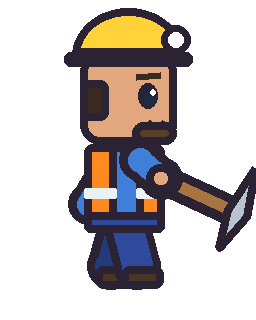
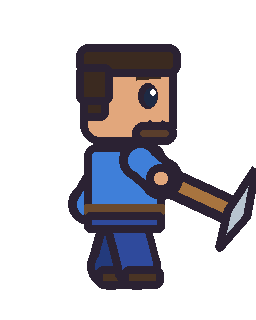
Team Up! 3D: Blocky without the hard hat and vest (brown blocky hair, blue shirt)
Claude-Session: https://claude.ai/code/session_016VAi3dvV3rpwa6cu57MYxQ

Changed region(s): [[0.25, 0.0, 0.75, 0.3125], [0.3125, 0.4688, 0.6562, 0.6875], [0.3438, 0.1875, 0.6562, 0.3125]]

diff --git a/teamup-paper/tools/gen_art.py b/teamup-paper/tools/gen_art.py
@@ -173,10 +173,7 @@ def blocky(name, legA=0.0, legB=0.0, armA=0.0, pick=0.3, squash=0.0, rot=0):
         p.rect(fx - 4, fy, fx + 6.5, fy + 5.5, BOOT, r=2)
     # body: square-ish
     p.rect(cx - 10, 36, cx + 10, 57 - squash * 4, SHIRT, r=3)
-    p.rect(cx - 10, 36, cx - 2, 57 - squash * 4, VEST, r=2)
-    p.rect(cx + 3, 36, cx + 10, 57 - squash * 4, VEST, r=2)
-    p.rect(cx - 10, 47, cx - 2, 49.5, rgb("#e9f3f5"), r=0.5, ink=False)
-    p.rect(cx + 3, 47, cx + 10, 49.5, rgb("#e9f3f5"), r=0.5, ink=False)
+    p.rect(cx - 10, 51 - squash * 4, cx + 10, 53.5 - squash * 4, rgb("#6a4a2e"), r=0.5, ink=False)   # belt
     p.rect(cx - 10, 53 - squash * 4, cx + 10, 58 - squash * 4, PANTS, r=1.5)
     # head: blocky rounded square
     hy = 24 + squash * 5
@@ -186,11 +183,9 @@ def blocky(name, legA=0.0, legB=0.0, armA=0.0, pick=0.3, squash=0.0, rot=0):
     p.eye(cx + 6, hy, 2.3, 3.2)
     p.line([(cx + 3, hy - 4.6), (cx + 9, hy - 5.2)], rgb("#3b2a20"), 1.8)  # eyebrow
     p.d.arc(p._b(cx + 5, hy + 2.5, cx + 11, hy + 8), 30, 150, fill=INK, width=int(1.5 * SS))
-    # hard hat + lamp
-    p.d.chord(p._b(cx - 13, hy - 22, cx + 15, hy + 2), 180, 360, fill=HAT, outline=INK, width=int(LW * SS))
-    p.rect(cx - 15, hy - 11, cx + 17, hy - 7.5, HAT, r=1.5)
-    p.oval(cx + 13, hy - 14, 3.6, 3.6, rgb("#fff6b0"))
-    p.oval(cx + 13, hy - 14, 1.8, 1.8, rgb("#ffffff"), ink=False)
+    # blocky brown hair on top (no hat)
+    p.rect(cx - 12, hy - 13, cx + 14, hy - 5, rgb("#3b2a20"), r=3)
+    p.rect(cx - 12, hy - 8, cx - 3, hy + 2, rgb("#3b2a20"), r=2)
     # front arm + pickaxe
     hx, hy2 = cx + 5 + math.sin(armA) * 6, 46 - math.cos(armA) * 2
     pickaxe(p, hx, hy2, pick)
